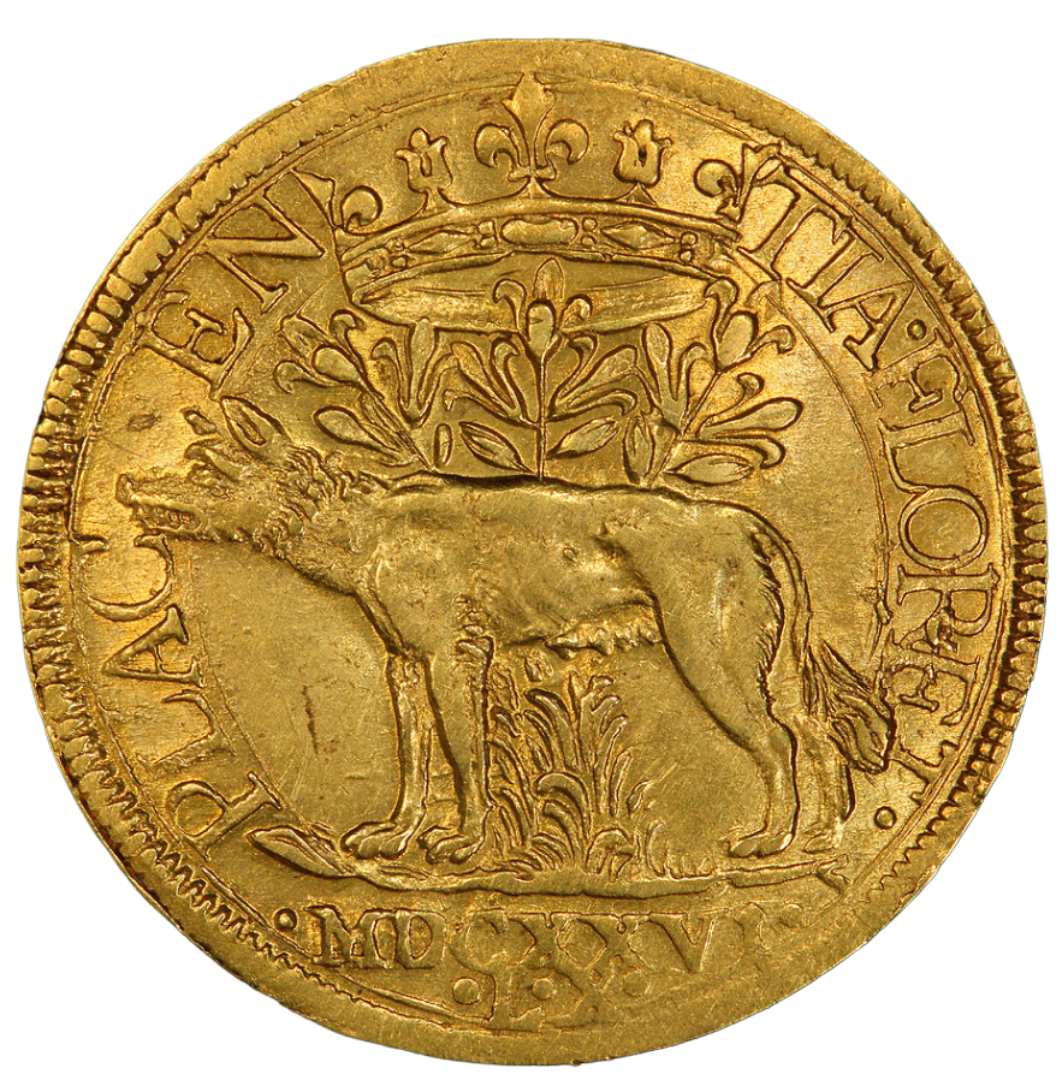
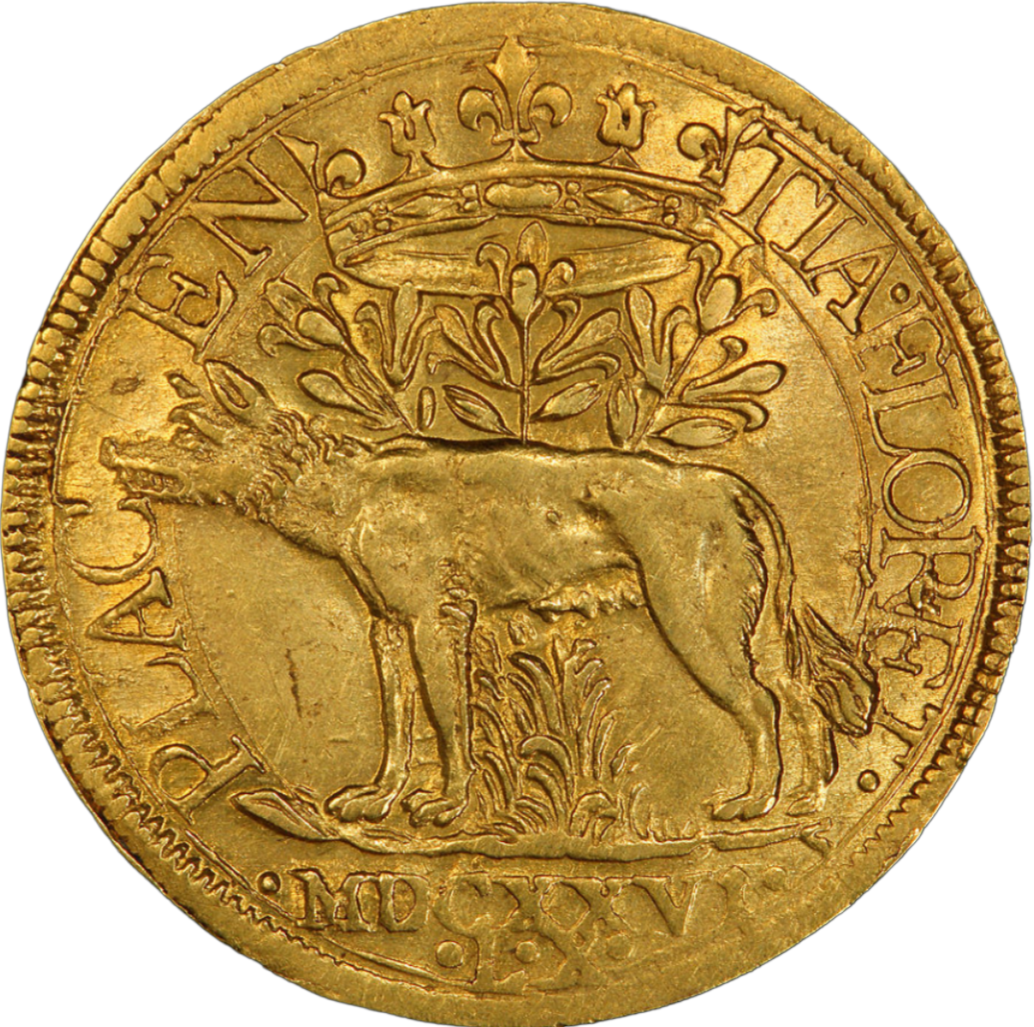
added "owned" count to upgrades

diff --git a/stylesheet.css b/stylesheet.css
@@ -1,15 +1,17 @@
 @import url('https://fonts.googleapis.com/css2?family=Pirata+One&family=Playfair+Display:ital,wght@0,400..900;1,400..900&display=swap');
 
 #coin{
-    background: none;
+    background: transparent;
     border: none;
 
-    width:410px;
-    height:410px;
+    width:400px;
+    height:400px;
     padding:0;
 
     animation: rotate 25s infinite;
     animation-timing-function: linear;
+
+    border-radius: 50%;
 
 }
 
@@ -22,6 +24,7 @@
     width:400px;
     height:400px;
     transition:20ms;
+    user-select: none;
 
 }
 
@@ -29,6 +32,7 @@
 
     width:375px;
     height:375px;
+    user-select: none;
 
 }
 
@@ -122,5 +126,13 @@ html{
     background-color: rgba(255, 255, 255, 0.74);
     font-family:"Playfair Display";
     font-weight: 600;
+
+}
+
+.owned{
+
+    font-size: 75px;
+    margin-left: auto;
+    margin-right: 10px;
 
 }

diff --git a/javascript.js b/javascript.js
@@ -50,12 +50,19 @@ function addupgradebutton (upgrade){
     divtag.appendChild(stattag)
     divtag.appendChild(pricetag)
 
+    upgrade.owned = 0
+    const ownedtag = document.createElement("div")
+    ownedtag.className = "owned"
+    ownedtag.innerText = upgrade.owned
+
     button.appendChild(imagetag)
     button.appendChild(divtag)
+    button.appendChild(ownedtag)
 
     button.addEventListener("click", function () {
         upgrade = buyupgrade(upgrade)
         pricetag.innerText = "$" + upgrade.price
+        ownedtag.innerText = upgrade.owned
 
     })
     
@@ -78,6 +85,8 @@ function buyupgrade (upgrade) {
 
     coins -= upgrade.price
     p.innerText = "Coins: " + coins
+
+    upgrade.owned += 1
 
     upgrade.price *= 1.3
     upgrade.price = Math.ceil(upgrade.price)

diff --git a/index.html b/index.html
@@ -20,7 +20,7 @@
         <div id="coindiv">
 
             <button onclick = "addcoin()" id="coin">
-                <img src="Assets/Gold_Doubloon.png"> 
+                <img src="Assets/Gold_Doubloon.png"draggable="false"> 
             </button>
 
         </div>
